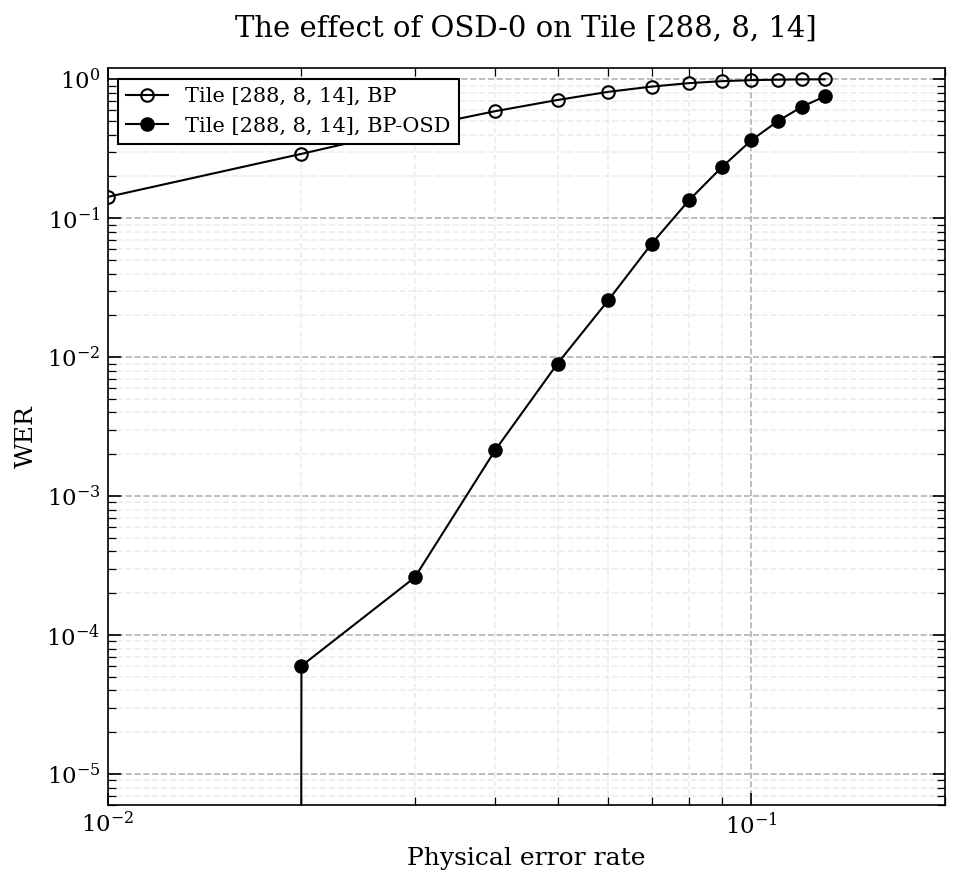
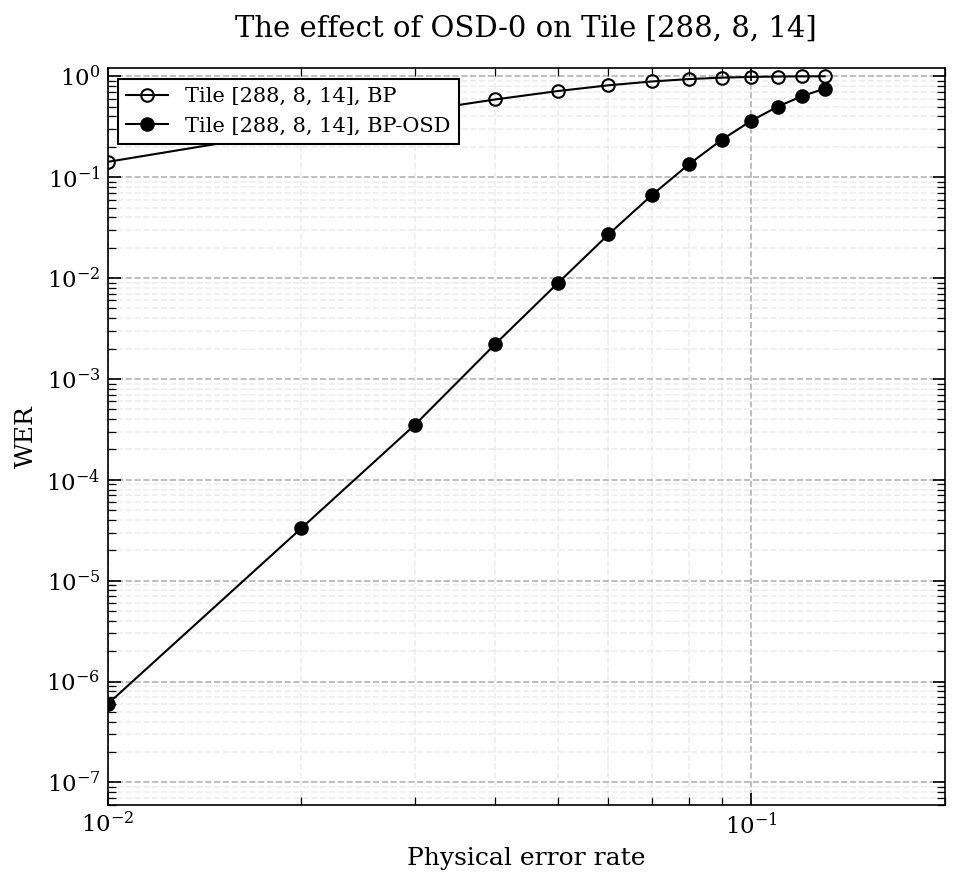
to ada for x_biased long

diff --git a/BP_OSD_Decoder/plot.py b/BP_OSD_Decoder/plot.py
@@ -60,18 +60,18 @@ def plot_bp_vs_osd(code_label, filepath, color):
 
     # Save and display
     plt.tight_layout()
-    plot_path = f'results/{code_label.replace(" ", "_").replace("[", "").replace("]", "").replace(",", "")}_bp_vs_osd.png'
+    plot_path = f'BP_OSD_Decoder/results/{code_label.replace(" ", "_").replace("[", "").replace("]", "").replace(",", "")}_bp_vs_osd.png'
     plt.savefig(plot_path, bbox_inches='tight')
     print(f"Plot saved successfully to {plot_path}")
     plt.show()
 
 if __name__ == "__main__":
     # Ensure simulate.py has been executed to generate the data
-    file_path = "results/tile_288_8_14_z_biased_comparison.txt"
+    file_path = "BP_OSD_Decoder/results/tile_288_8_14_x_biased_comparison.txt"
     
     if os.path.exists(file_path):
         # Using black to perfectly replicate the A1 code style from the image
-        plot_bp_vs_osd(code_label="Tile [288, 8, 14] Infinite Z biased", filepath=file_path, color='black')
+        plot_bp_vs_osd(code_label="Tile [288, 8, 14] X-biased", filepath=file_path, color='red')
     else:
         print(f"Error: Could not find {file_path}.")
         print("Please run simulate.py first to generate the required Monte Carlo data.")

diff --git a/BP_OSD_Decoder/simulate_p_adjusted.py b/BP_OSD_Decoder/simulate_p_adjusted.py
@@ -67,7 +67,7 @@ if __name__ == "__main__":
     error_rates = [0.01, 0.02, 0.03, 0.04, 0.05, 0.06, 0.07, 0.08, 0.09, 0.1, 0.11, 0.12, 0.13]
     trials = 5000000
     
-    code_name = "tile_288_8_14"  # Change this to the desired code name (without .npz extension)
+    code_name = "tile_288_8_14_x_biased"  # Change this to the desired code name (without .npz extension)
     print(f"--- Simulating Code: {code_name} ---")
     
     # Get the directory of this script

diff --git a/BP_OSD_Decoder/decoder_p_adjusted.py b/BP_OSD_Decoder/decoder_p_adjusted.py
@@ -2,8 +2,8 @@ from ldpc.bposd_decoder import BpOsdDecoder
 from ldpc.bp_decoder import BpDecoder
 
 def setup_all_decoders(HX, HZ, p, osd_order=0):
-    pz = 2*p/3
-    px = 2*p/3
+    pz = 0.0
+    px = p
     bp_x = BpDecoder(
         HZ,
         error_rate=px,

diff --git a/BP_OSD_Decoder/channel_p_adjusted.py b/BP_OSD_Decoder/channel_p_adjusted.py
@@ -2,7 +2,7 @@ import numpy as np
 
 def generate_depolarizing_error(n, p):
     choices = [0, 1, 2, 3]
-    probs = [1 - p, p/3, p/3, p/3]
+    probs = [1 - p, p, 0, 0]
     
     errors = np.random.choice(choices, size=n, p=probs)
     
